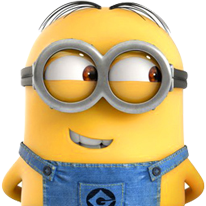
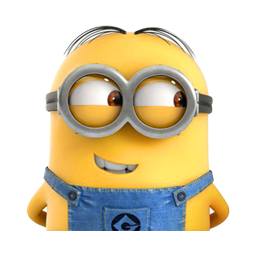
平铺图片

diff --git a/src/Main.ts b/src/Main.ts
@@ -45,7 +45,7 @@ class Main {
         gl.enable(gl.DEPTH_TEST);
         gl.depthFunc(gl.LEQUAL);
         gl.clear(gl.COLOR_BUFFER_BIT|gl.DEPTH_BUFFER_BIT);
-        Http.loadAll(["src/shaders/shader-vs.glsl","src/shaders/shader-fs.glsl","resource/sky.jpg"],this.initShaders,this);
+        Http.loadAll(["src/shaders/shader-vs.glsl","src/shaders/shader-fs.glsl","resource/test.png"],this.initShaders,this);
     }
 
     private initShaders(resultList:any[]):void{
@@ -63,7 +63,7 @@ class Main {
         gl.useProgram(shaderProgram);
 
         var matrix = new Matrix4();
-        matrix.rotate(45,0,0,-1);
+        //matrix.rotate(45,0,0,-1);
         var u_xformMatrix = gl.getUniformLocation(shaderProgram,"u_xformMatrix");
         gl.uniformMatrix4fv(u_xformMatrix,false,matrix.data);
 
@@ -72,16 +72,21 @@ class Main {
         gl.clear(gl.COLOR_BUFFER_BIT);
 
         var vertices = new Float32Array([
-            -0.5,0.5,0.0,1.0,
+            -0.5,0.5,0.0,1.7,
             -0.5,-0.5,0.0,0.0,
-            0.5,0.5,1.0,1.0,
-            0.5,-0.5,1.0,0.0
+            0.5,0.5,1.7,1.7,
+            0.5,-0.5,1.7,0.0
         ]);
         var vertexBuffer = gl.createBuffer();
         if(!vertexBuffer){
             console.log('failed to create the buffer object!');
             return;
         }
+
+        gl.enable(gl.BLEND);
+        gl.blendEquationSeparate(gl.FUNC_ADD, gl.FUNC_ADD);
+        gl.blendFuncSeparate(gl.SRC_ALPHA, gl.ONE_MINUS_SRC_ALPHA, gl.ONE, gl.ONE_MINUS_SRC_ALPHA);
+
         gl.bindBuffer(gl.ARRAY_BUFFER,vertexBuffer);
         gl.bufferData(gl.ARRAY_BUFFER,vertices,gl.STATIC_DRAW);
         var size = vertices.BYTES_PER_ELEMENT;
@@ -102,8 +107,11 @@ class Main {
         gl.pixelStorei(gl.UNPACK_FLIP_Y_WEBGL,1);
         gl.activeTexture(gl.TEXTURE0);
         gl.bindTexture(gl.TEXTURE_2D,texture);
-        gl.texParameteri(gl.TEXTURE_2D,gl.TEXTURE_MIN_FILTER,gl.LINEAR);
-        gl.texImage2D(gl.TEXTURE_2D,0,gl.RGB,gl.RGB,gl.UNSIGNED_BYTE,image);
+        gl.texParameteri(gl.TEXTURE_2D, gl.TEXTURE_MAG_FILTER, gl.LINEAR);
+        gl.texParameteri(gl.TEXTURE_2D, gl.TEXTURE_MIN_FILTER, gl.LINEAR);
+        gl.texParameteri(gl.TEXTURE_2D, gl.TEXTURE_WRAP_S, gl.REPEAT);
+        gl.texParameteri(gl.TEXTURE_2D, gl.TEXTURE_WRAP_T, gl.REPEAT);
+        gl.texImage2D(gl.TEXTURE_2D,0,gl.RGBA,gl.RGBA,gl.UNSIGNED_BYTE,image);
         gl.uniform1i(u_Sampler,0);
 
         gl.drawArrays(gl.TRIANGLE_STRIP,0,4);
